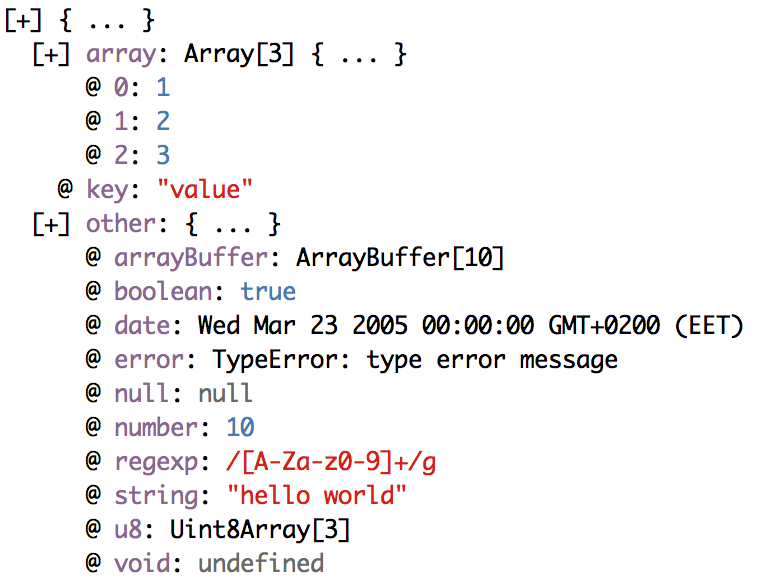
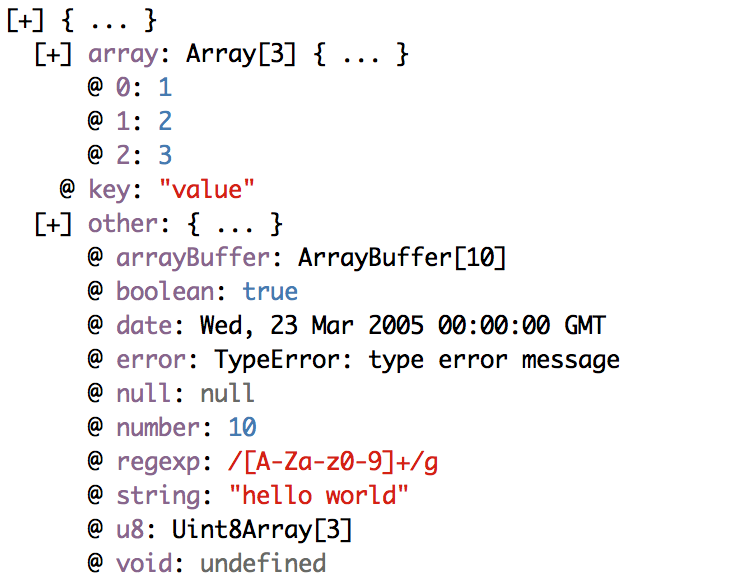
Print dates in UTC

Changed region(s): [[0.0, 0.0, 0.9945, 0.9948]]

diff --git a/test.js b/test.js
@@ -10,7 +10,7 @@ test('basic', t => {
       boolean: true,
       number: 10,
       string: 'hello world',
-      date: new Date(2005, 2, 23),
+      date: new Date(Date.UTC(2005, 2, 23)),
       regexp: /[A-Za-z0-9]+/g,
       error: new TypeError('type error message'),
       null: null,
@@ -30,7 +30,7 @@ test('basic', t => {
   [+] other: { ... }
       @ arrayBuffer: ArrayBuffer[10]
       @ boolean: true
-      @ date: Wed Mar 23 2005 00:00:00 GMT+0200 (EET)
+      @ date: Wed, 23 Mar 2005 00:00:00 GMT
       @ error: TypeError: type error message
       @ null: null
       @ number: 10

diff --git a/example.js b/example.js
@@ -8,7 +8,7 @@ lc({
     boolean: true,
     number: 10,
     string: 'hello world',
-    date: new Date(2005, 2, 23),
+    date: new Date(Date.UTC(2005, 2, 23)),
     regexp: /[A-Za-z0-9]+/g,
     error: new TypeError('type error message'),
     null: null,

diff --git a/index.js b/index.js
@@ -173,7 +173,7 @@ function recursive(context, value, level) {
   }
 
   if (isDate(value)) {
-    log(Date.prototype.toString.call(value));
+    log(Date.prototype.toUTCString.call(value));
     return;
   }
 
